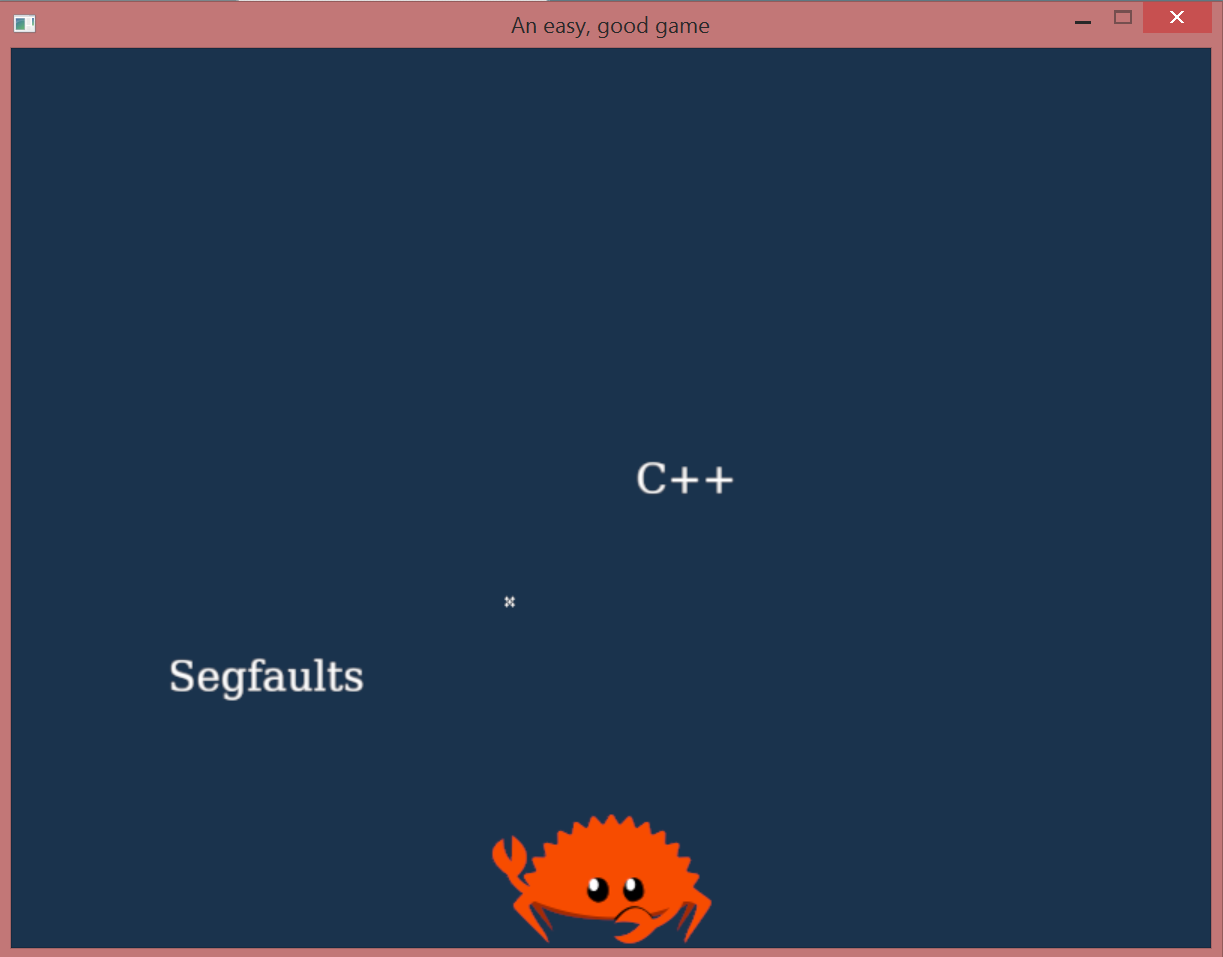
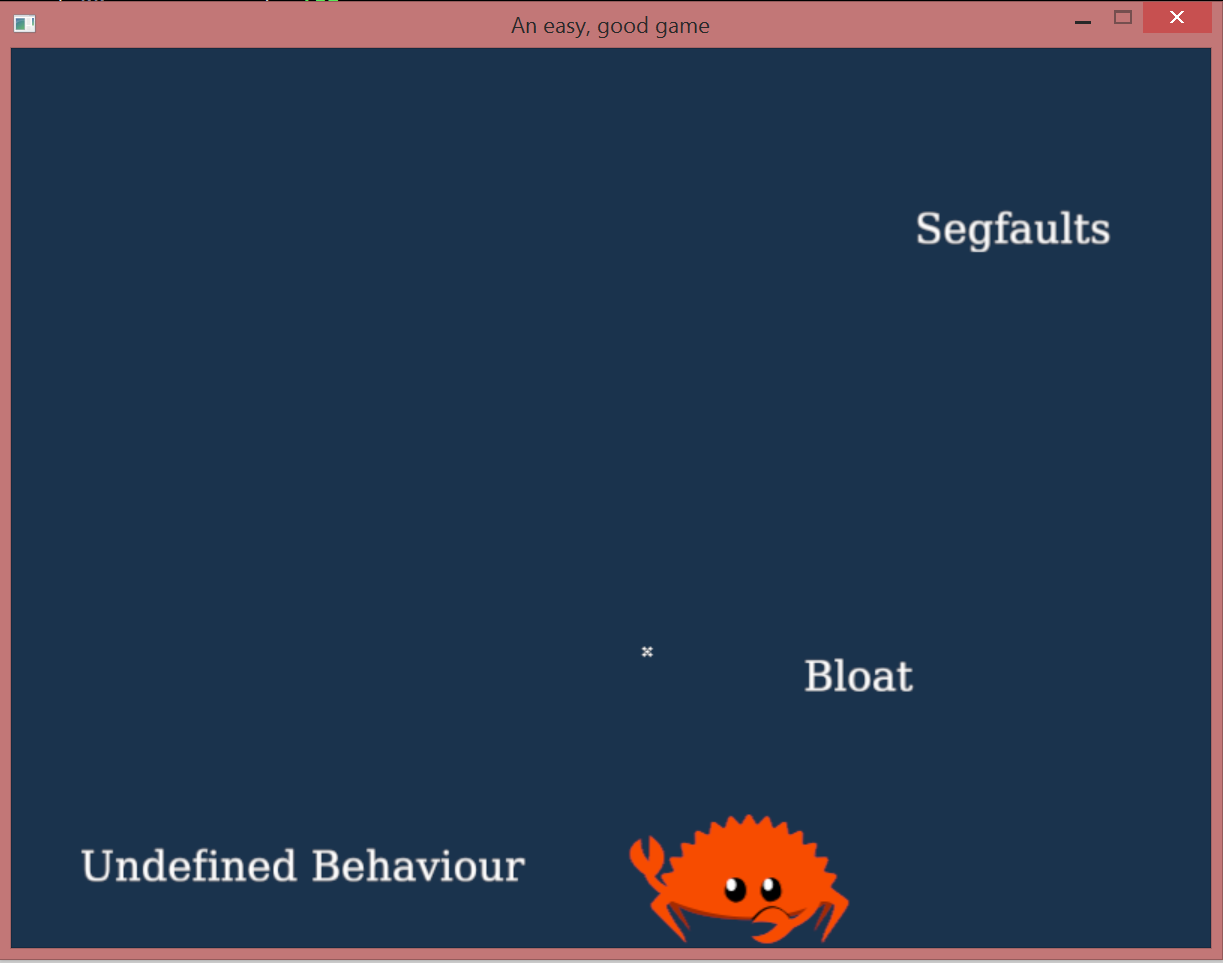
Update the ENEMIES list

diff --git a/src/main.rs b/src/main.rs
@@ -38,10 +38,10 @@ struct MainState {
 }
 
 impl MainState {
-    const ENEMIES: [&'static str; 8] = [
-        "Segfaults", "C++", "Undefined Behaviour",
-        "NULL", "Inefficiency", "Bloat",
-        "Goto", "Data Races"
+    const ENEMIES: [&'static str; 7] = [
+        "Segfaults", "Undefined Behaviour",
+        "NULLs", "Inefficiencies", "Bloat",
+        "Unnecessary Heap Allocations", "Data Races"
     ];
 
     fn new(ctx: &mut Context) -> GameResult<MainState> {
